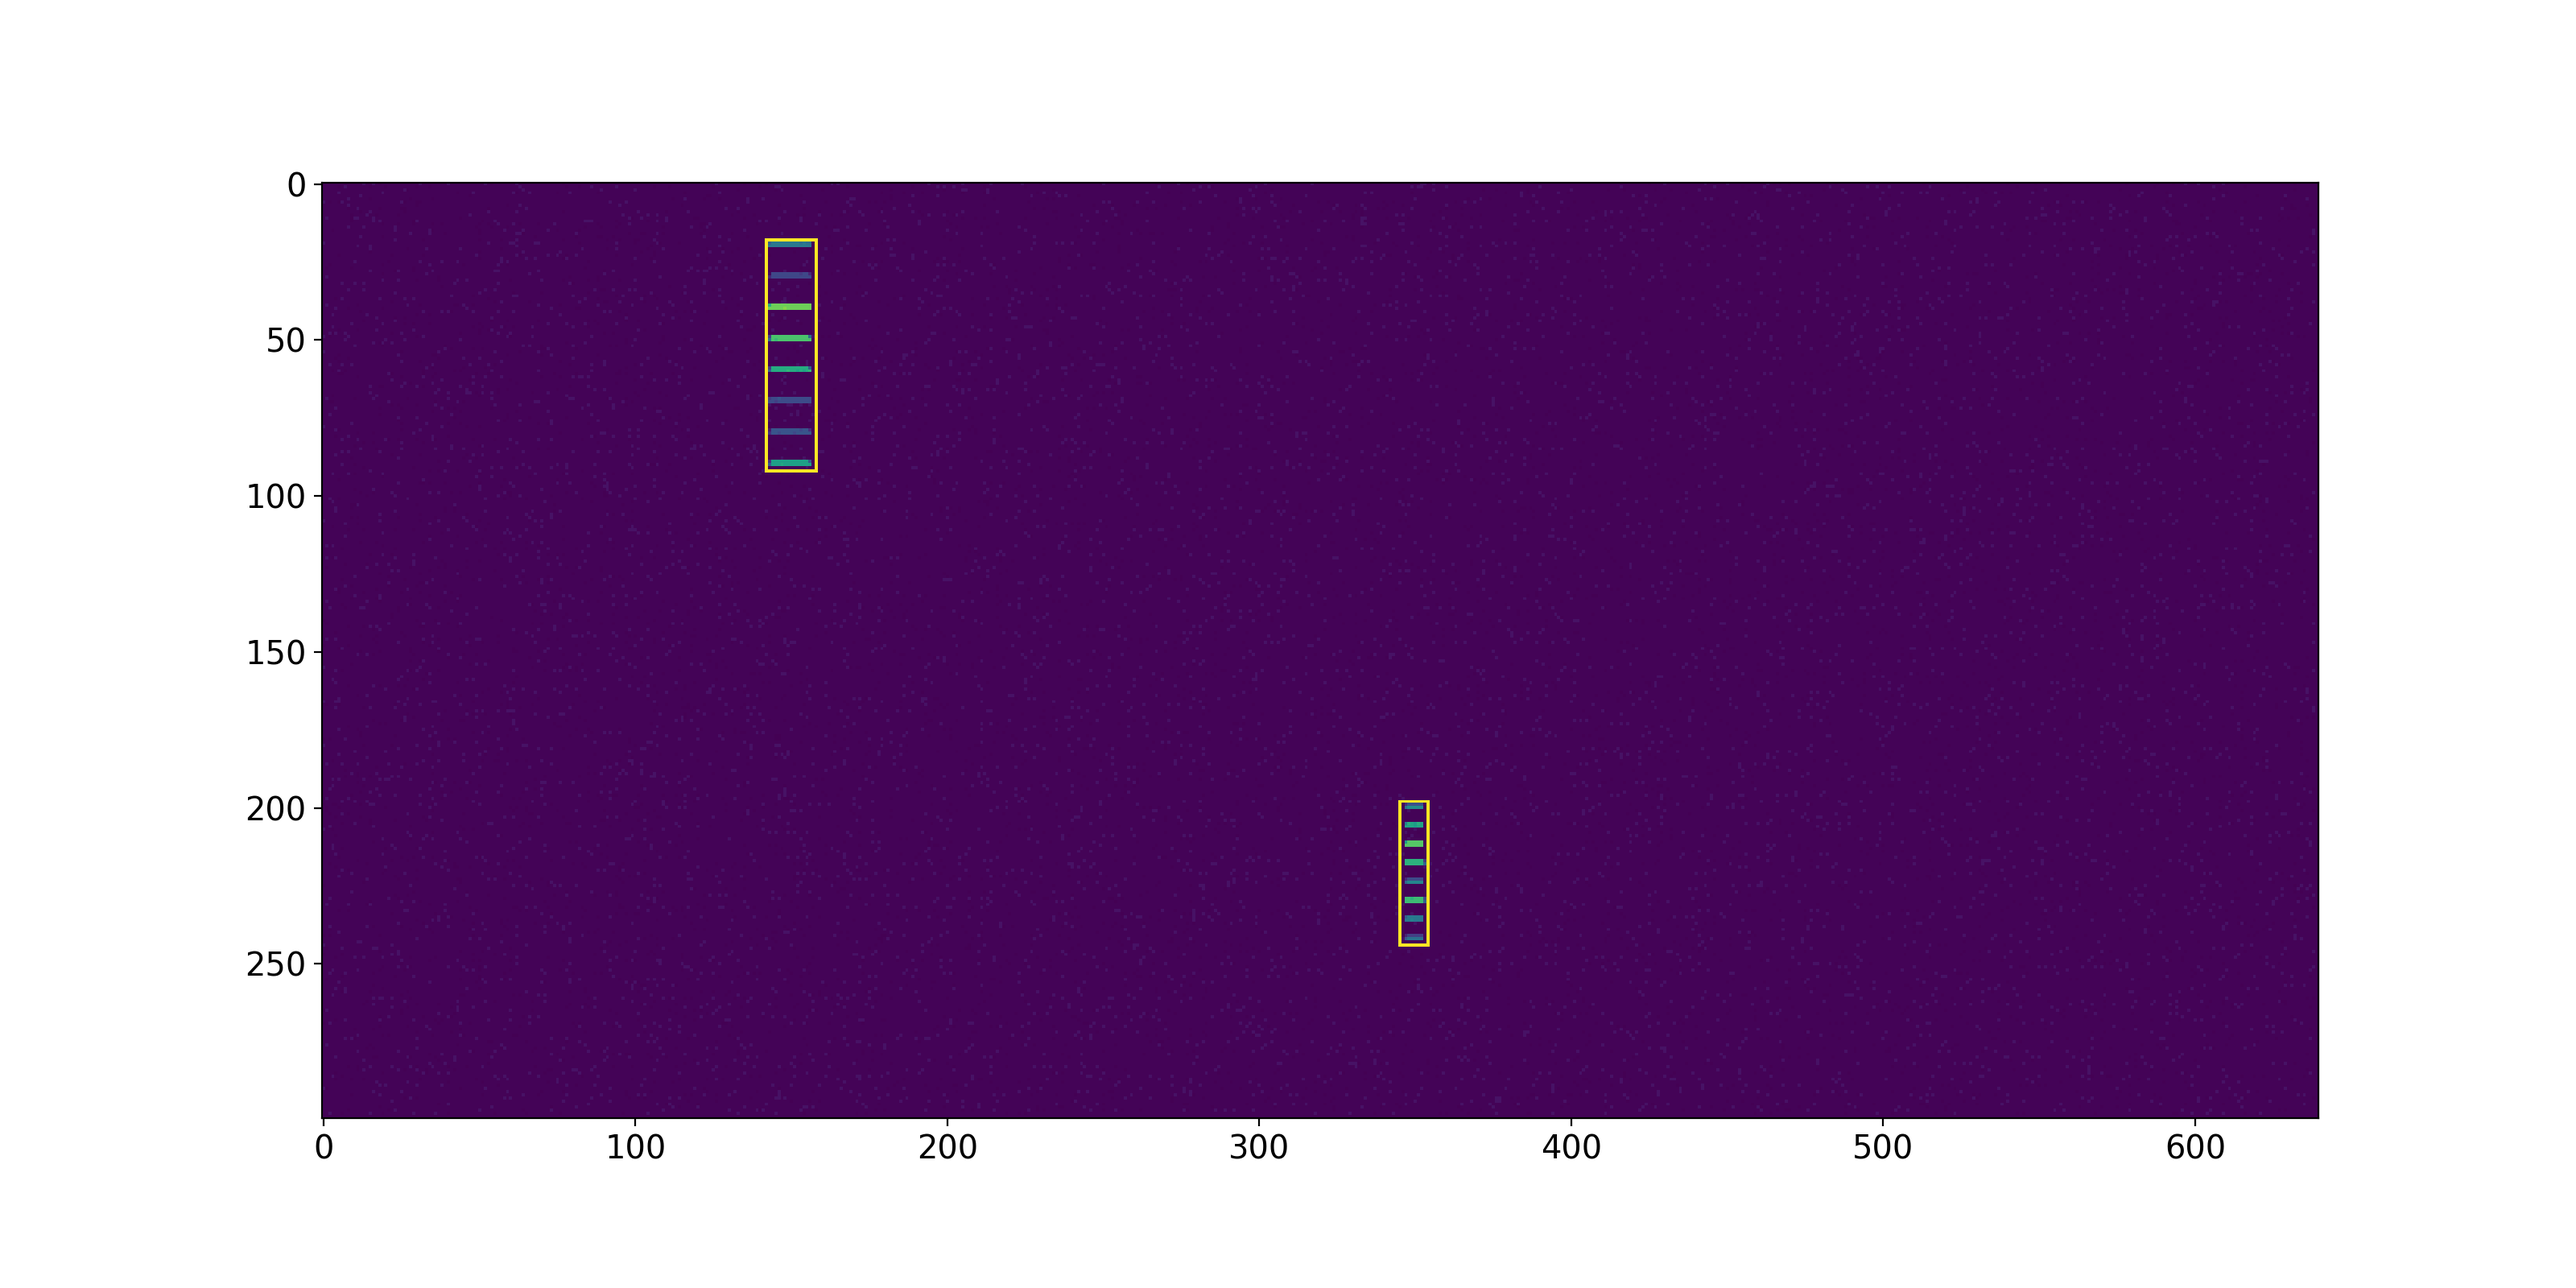
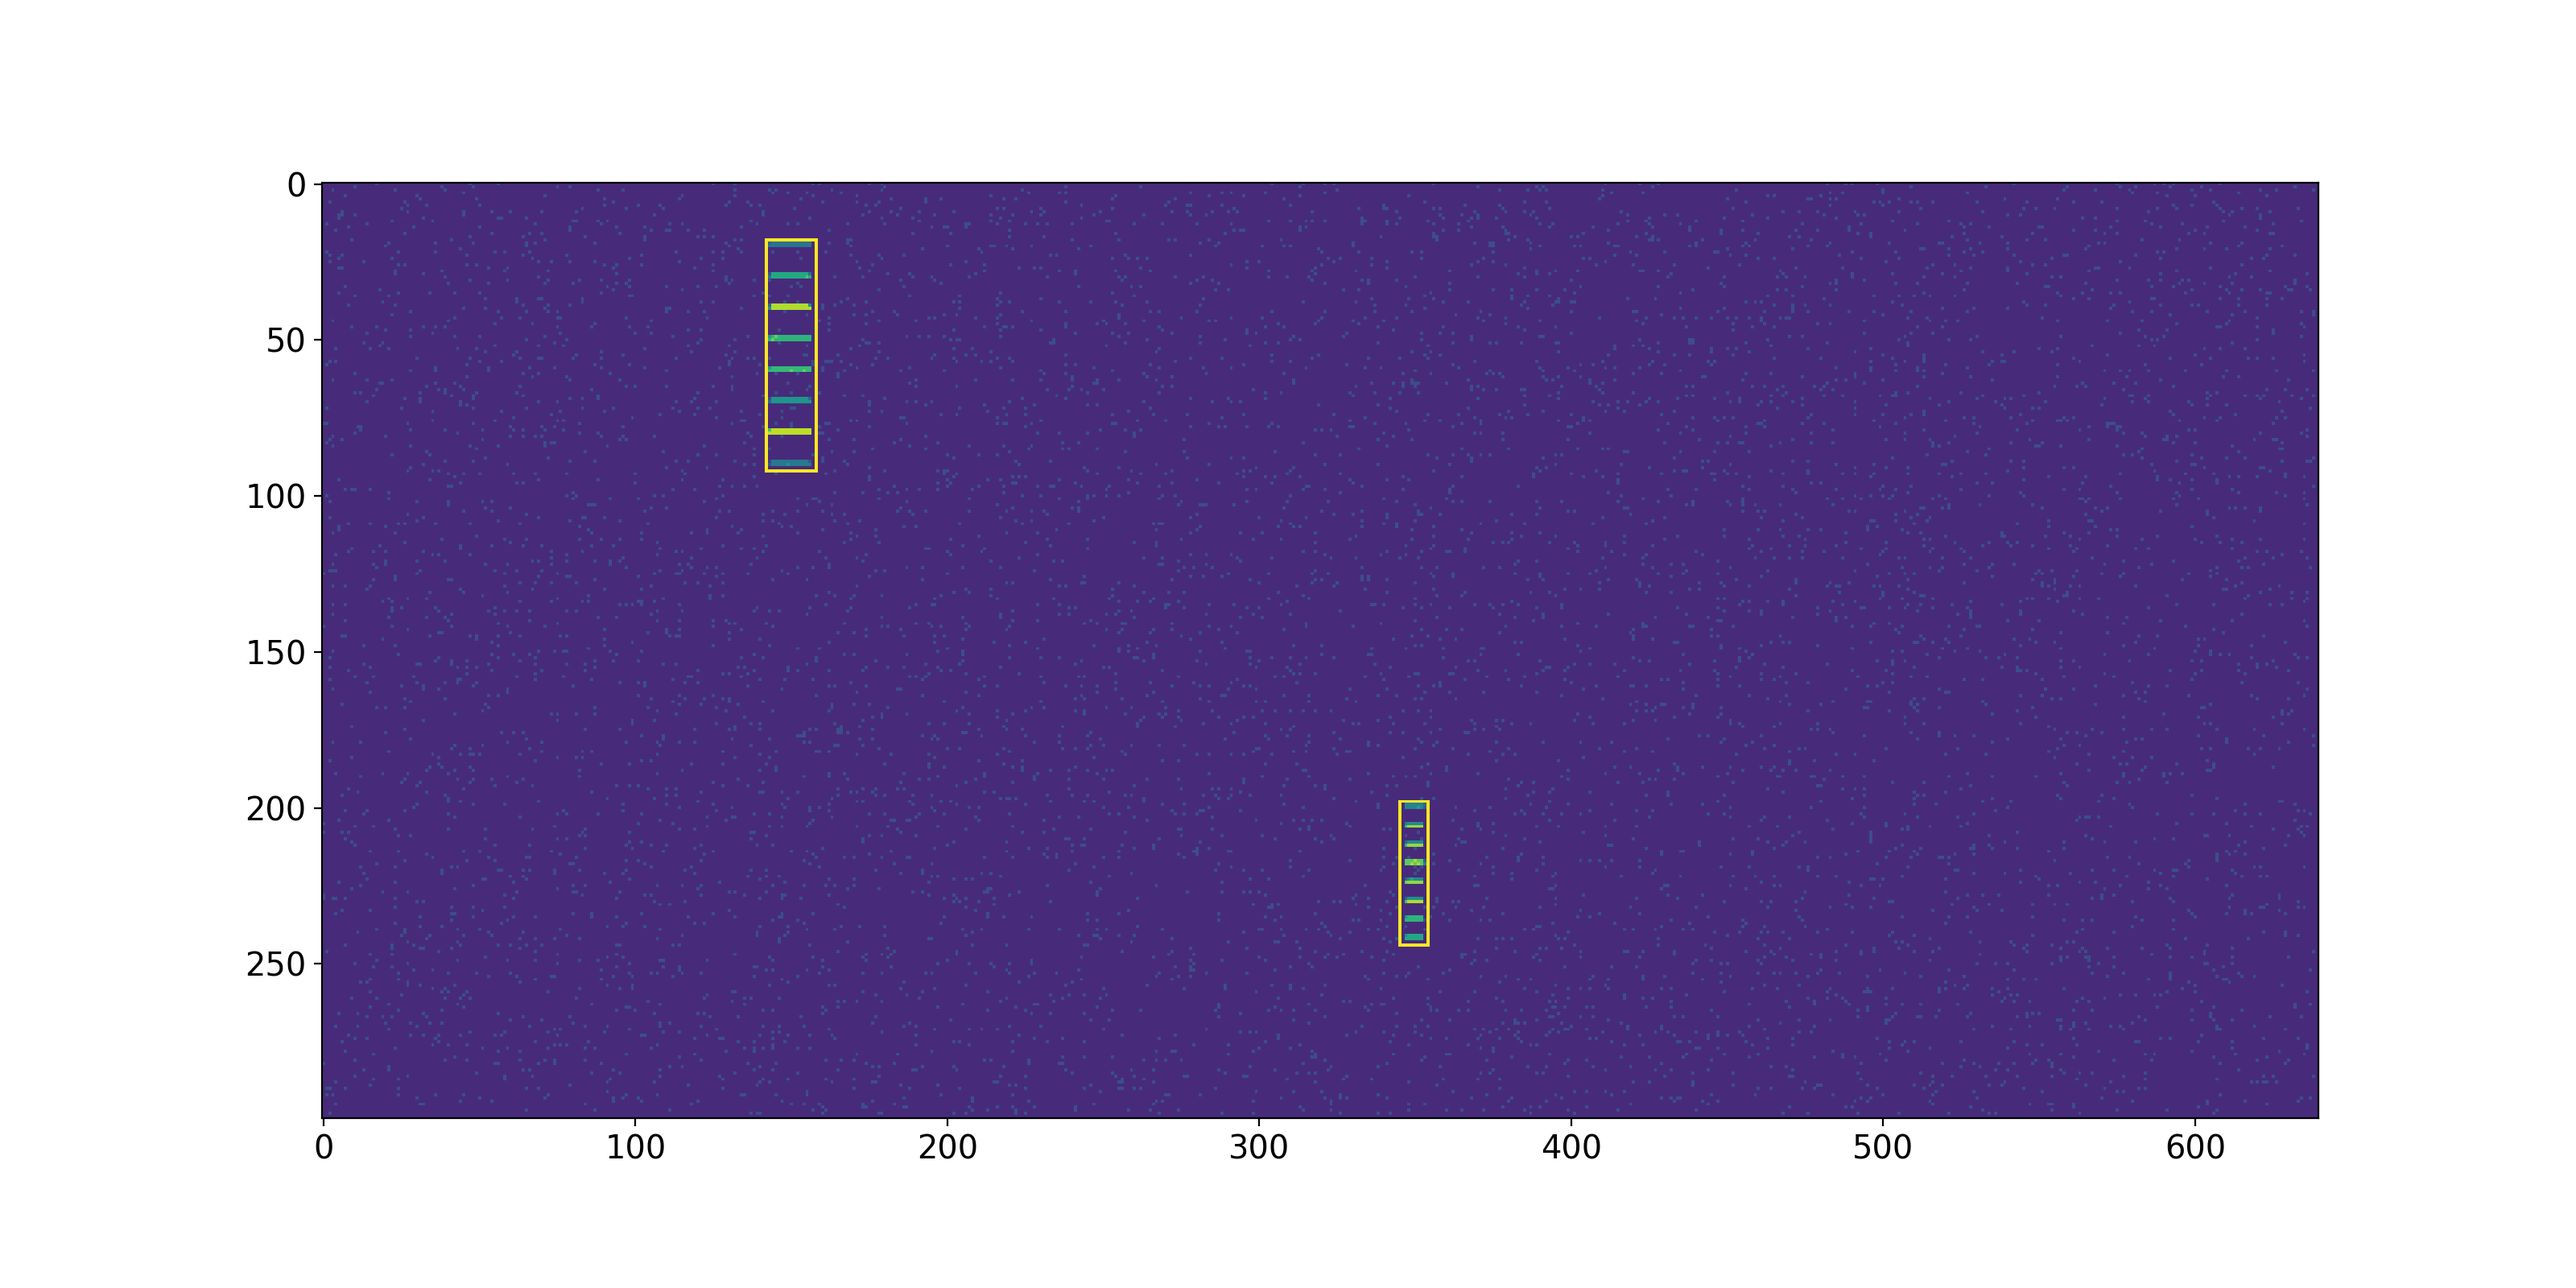
Changements dans le bruit

diff --git a/ImageSynthetique.py b/ImageSynthetique.py
@@ -9,8 +9,13 @@ params = {'legend.fontsize': 'x-large',
           'figure.dpi' : 200}
 
 plt.rcParams.update(params)
-
+import time
 import cv2
+
+def timing(part='', start=None):
+    if start!=None:
+        print('Time of part '+part+':'+str(time.time()-start))
+    return time.time()
 
 class Image:
     """docstring for ."""
@@ -24,7 +29,7 @@ class Image:
 
     def create_image(self):
         self.image = np.ones((self.height, self.width), np.float32) * 2
-        self.image = noisy(self.image, 10)
+        self.image = noisy(self.image, 30, 30)
         self.mask = np.zeros((self.height, self.width), np.uint8)
         pass
 
@@ -96,6 +101,7 @@ class Image:
 
     def compare_labels(self, resampled_labels, pad_h, pad_v, window_size):
         new_labels = self.resize_labels(resampled_labels, pad_h, pad_v, window_size)
+
         fig = plt.figure()
         ax = fig.gca()
         ax.tick_params(
@@ -119,11 +125,12 @@ class Image:
         ax.set_xticks(np.arange(0, self.width, pad_h*4))
         ax.set_yticks(np.arange(0, self.height, pad_v*4))
 
-        pairs = np.array(np.where(resampled_labels>0)).transpose()[:,[1, 0]]
-        new_points = np.array([element*[pad_h,pad_v]+[window_size//2, window_size//2] for element in pairs ])
         plt.imshow(self.mask, vmin=0, vmax=255)
         plt.imshow(new_labels, vmin=0, vmax=1, alpha=0.5)
-        plt.scatter(new_points[:,0],new_points[:,1], s=1)
+
+        # pairs = np.array(np.where(resampled_labels>0)).transpose()[:,[1, 0]]
+        # new_points = np.array([element*[pad_h,pad_v]+[window_size//2, window_size//2] for element in pairs ])
+        # plt.scatter(new_points[:,0],new_points[:,1], s=1)
         # And a corresponding grid
         ax.grid(which='both')
         #ax.grid(which='minor', alpha=0.5, color='black')
@@ -147,7 +154,7 @@ class Image:
         return labels_resize
 
 
-def noisy(image, height):
+def noisy(image, height, intensity):
     row,col= image.shape
     s_vs_p = 0.5
     amount = 0.08
@@ -158,8 +165,9 @@ def noisy(image, height):
           for i in image.shape]
     out[tuple(coords)] += height
     # Pepper mode
-    num_pepper = np.ceil(amount* image.size * (1. - s_vs_p))
-    coords = [np.random.randint(0, i - 1, int(num_pepper))
-          for i in image.shape]
-    out[tuple(coords)] -= height
+    # num_pepper = np.ceil(amount* image.size * (1. - s_vs_p))
+    # coords = [np.random.randint(0, i - 1, int(num_pepper))
+    #       for i in image.shape]
+    # out[tuple(coords)] -= height
+    out += np.random.randint(0, intensity)
     return out

diff --git a/main.py b/main.py
@@ -1,9 +1,11 @@
 from ImageSynthetique import *
-from Dataset import *
+#from Dataset import *
+
 
 def main():
     height, width = (300, 640)
 
+    var_time = timing()
     train = Image(height, width)
 
     starting_point = [300, 40]
@@ -14,6 +16,7 @@ def main():
     train.add_object(starting_point, spacing, length, lines)
     train.plot_label()
     plt.savefig('train')
+    var_time = timing('train', var_time)
 
     # Image test
     test = Image(300)
@@ -34,23 +37,27 @@ def main():
 
     fig = test.plot_label()
     plt.savefig('test')
+    var_time = timing('test', var_time)
 
     pad_h = 8
     pad_v = 6
     window_size = 32
 
     crops, labels = train.sliding_window(window_size, pad_h, pad_v)
+    var_time = timing('sliding_window', var_time)
 
     plt.imshow(crops[crops.shape[0]//2-2,crops.shape[1]//2-1])
     plt.imshow(labels)
     plt.savefig('crop')
 
     train.compare_labels(labels, pad_h, pad_v, window_size)
+    var_time = timing('compare', var_time)
     plt.savefig('compare')
-    
+    var_time = timing('save', var_time)
+
     labels /= labels.max()
     img_shape = (window_size,window_size,1)
-    ds_train, ds_val = crops_to_dataset(crops, labels, balanced=False, split=True)
+    # ds_train, ds_val = crops_to_dataset(crops, labels, balanced=False, split=True)
 
 if __name__ == "__main__":
     main()
